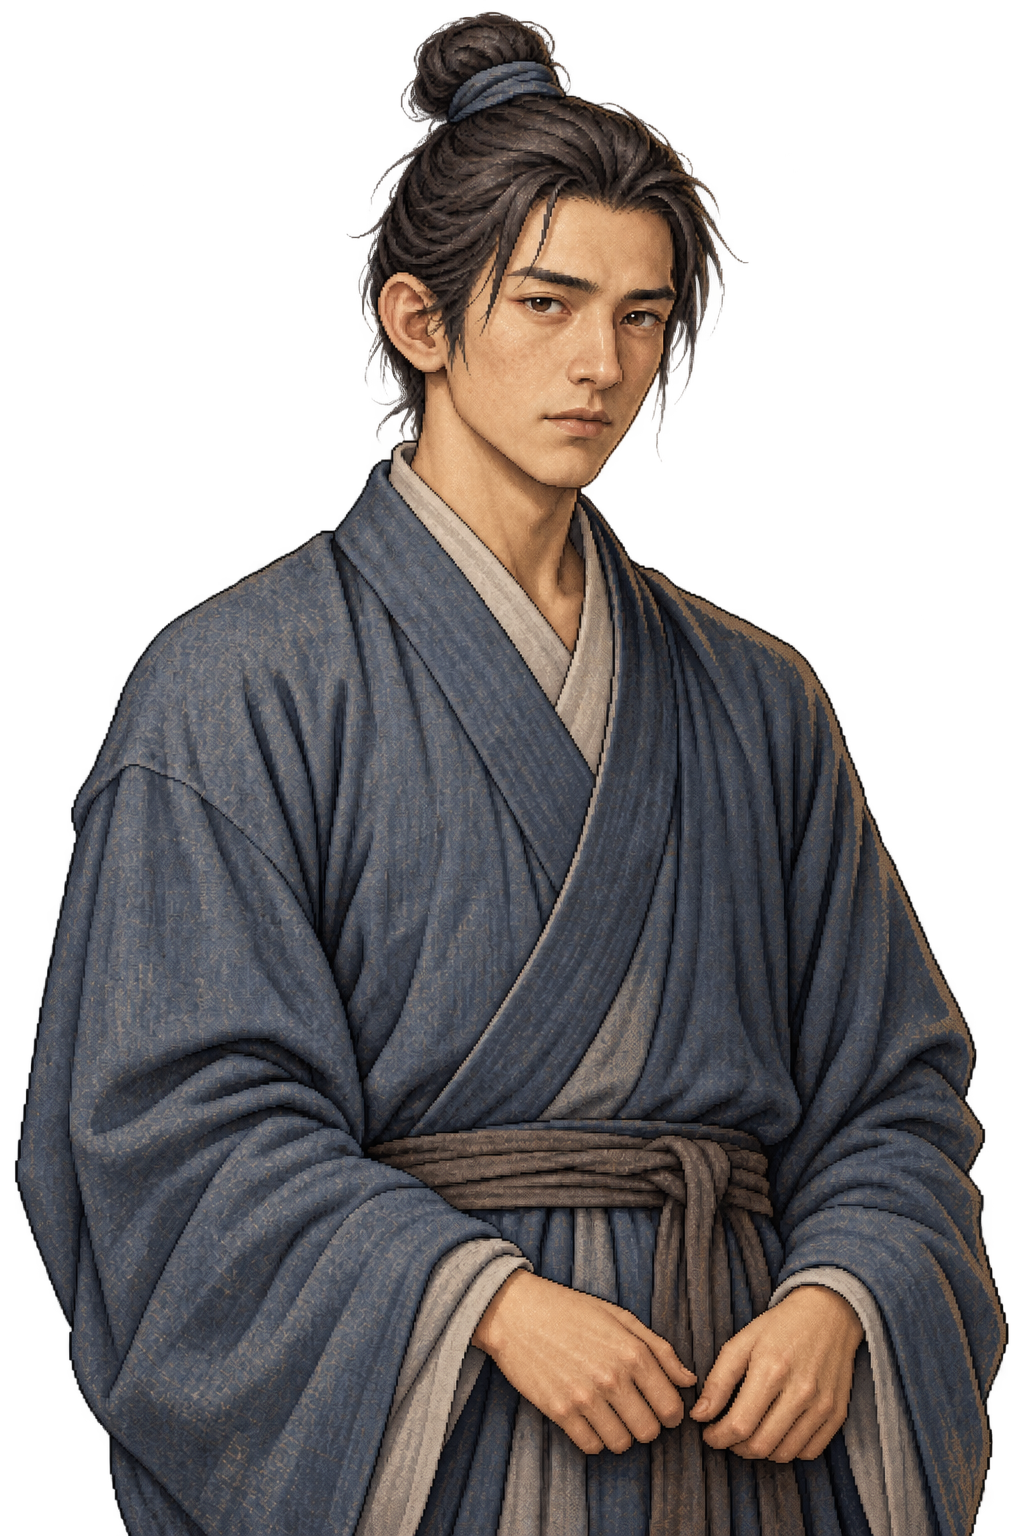
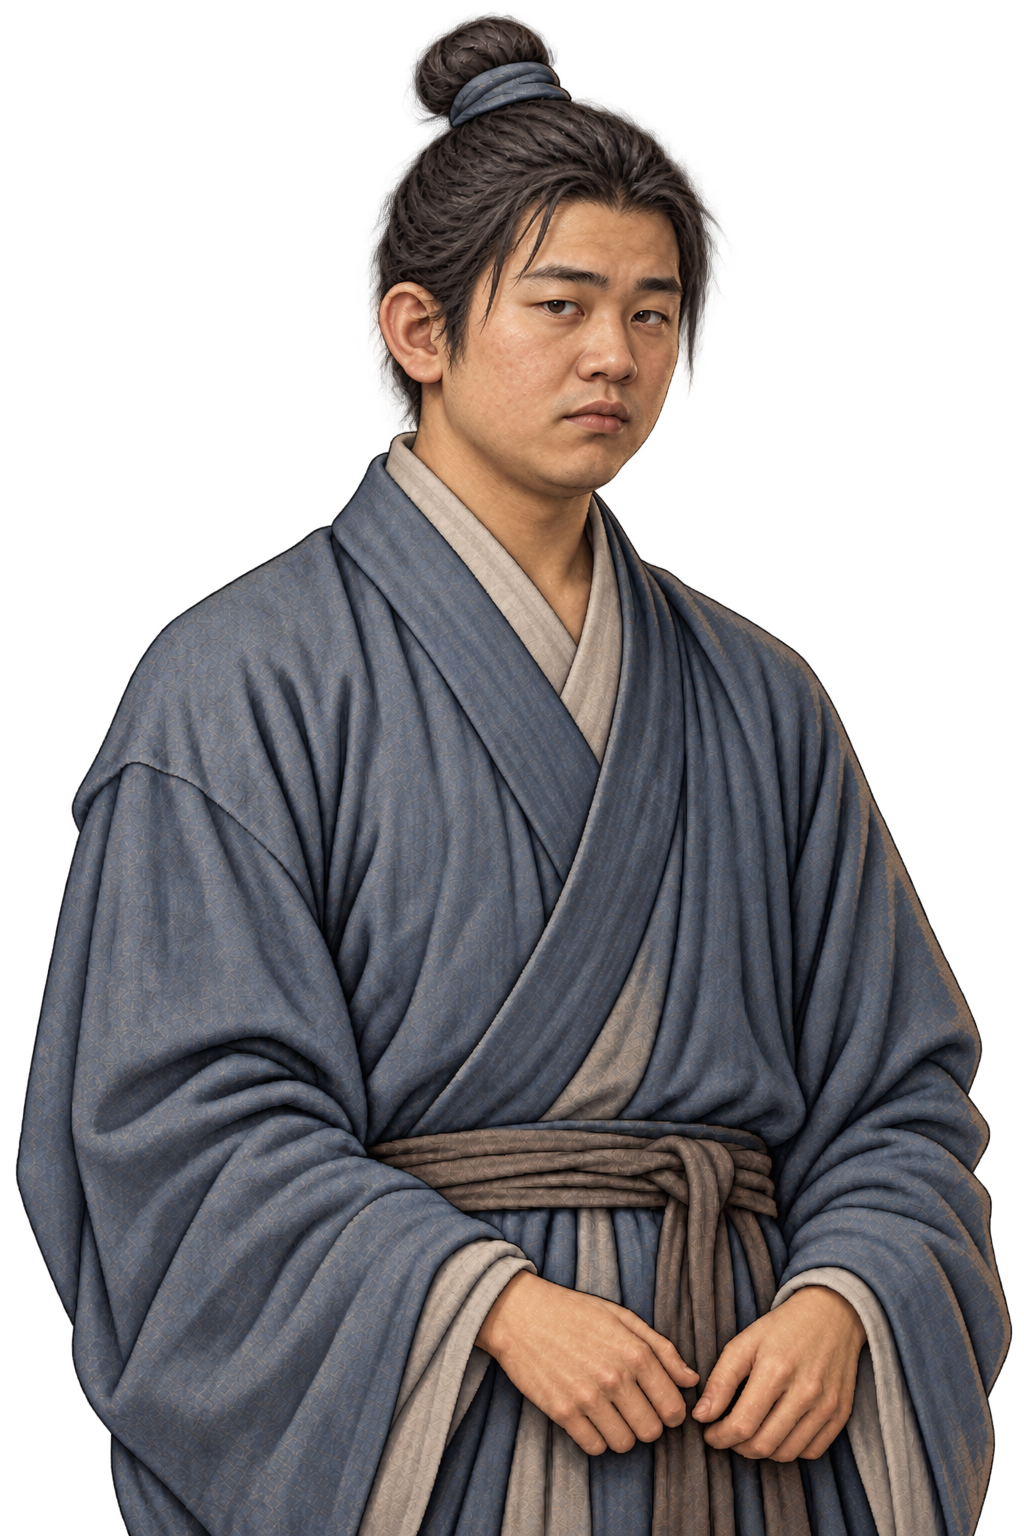
Replace shared young NPC portraits with ordinary civilian faces

Changed region(s): [[0.0, 0.0, 1.0, 1.0]]

diff --git a/docs/CLI_HANDOFF.md b/docs/CLI_HANDOFF.md
@@ -22,7 +22,7 @@
 - **무림맹 중급 무공:** 검·도·창·권·장5종을 전용 데이터와 아이콘에 등록했다. 능력치/경지 학습 제한은 없고 무기·내기 사용 조건은 유지한다. 반석권법 내공 계수를6으로 강화해 균형20 기준 장법과 동일한320이다. 일반 교관 비판매이며 무림맹 전수 대화/지급은 아직 미연결이다. [수치·비교·이미지](martial-arts/alliance-intermediate.md).
 - **전투:** 기본공격/기본방어/삼재검법/빈칸으로 시작하며 **4칸 모두 교체 가능**. 기본방어70%, 검법 사용 후 방어20%. 적도 공통 내기/무공 규칙을 쓰고 플레이어 선택 전에 행동을 확정한다. 예고는 큰 기세만 보여 준다.
 - **포졸 초상화:** 기존 토벌 대화의 `bandit_messenger`에 검정·붉은 관아 근무복/관모·捕 표식·포승줄·단봉을 갖춘 `portraits/story/constable-duty.png`를 적용했다. 기본18장과 주인공은 그대로다. [그림·근거·연결](../godot/assets/portraits/story/README.md).
-- **표현:** 검·도·창·맨손 전투 모션과 양측 공격·피격 효과음, 걷기 애니메이션, 상황별 BGM, 번들 붓글씨/명조체, 초상화 비율·시선 처리. 기본 NPC 초상화는 기존 공용10장+무창8장=총18장(남10/여8). 일반 마을 NPC는 별도 지시 없이 새 그림을 만들지 않고 재사용한다. `data/basic_npc_portraits.json`이 목록이며 같은 대화의 이미지 중복을 금지한다. 대화 기록 버튼/H키로 현재까지 읽은 줄을 본다. [오브젝트·대화 도구](systems/layered-city-and-conversation.md).
+- **표현:** 검·도·창·맨손 전투 모션과 양측 공격·피격 효과음, 걷기 애니메이션, 상황별 BGM, 번들 붓글씨/명조체, 초상화 비율·시선 처리. 기본 NPC 초상화는 기존 공용10장+무창8장=총18장(남10/여8). 갤러리4번/9번 공용 청년 남녀를 평범한 인상으로 교체해 기존 사용처 전체에 적용했다(원본 경로/ID 유지). 일반 마을 NPC는 별도 지시 없이 새 그림을 만들지 않고 재사용한다. `data/basic_npc_portraits.json`이 목록이며 같은 대화의 이미지 중복을 금지한다. 대화 기록 버튼/H키로 현재까지 읽은 줄을 본다. [오브젝트·대화 도구](systems/layered-city-and-conversation.md).
 - **저장:** 수동10슬롯, schema1~3 읽기 호환. **대화·거래·전투 중 새 저장/덮어쓰기 금지**, 탐험·분기 선택창 저장 가능. 과거 버전의 대화/거래/전투 저장은 읽을 수 있다. 일반 의뢰 진행·달성·안부 분기와 시설 안내도 보존한다. 환경 설정은 별도 preferences.cfg다. 자동 0장 체크포인트와 수동 저장은 별개다.
 
 ## 유지할 설정

diff --git a/godot/assets/portraits/extras/README.md b/godot/assets/portraits/extras/README.md
@@ -39,3 +39,11 @@
 ## 현재 기본 풀18장
 
 이 폴더10장에 `../wuchang/`의8장을 합쳐 기본 NPC 이미지18장으로 지정했다. 일반 마을 NPC는 별도 지시 없이 이 풀을 재사용하며 새 그림을 자동 생성하지 않는다. 파일을 복사/이동하지 않고 `data/basic_npc_portraits.json`의 안정적인 ID로 참조한다. 인물 등록에는 `basic_portrait: "male_farmer"`처럼 지정할 수 있고 기존 `extra` 분류도 유지한다. [현재 제작 원칙](../../../../docs/characters/creation-guidelines.md).
+
+## 공용 청년 남녀 교체 — 2026-10-25
+
+기본 풀 갤러리4번 `male_young.png`와9번 `female_young.png`를 일반 주민에 맞는 평범한 인상으로 교체했다. 남성은 넓고 둥근 얼굴·짧은 턱·작은 눈·낮고 넓은 코·생활감 있는 피부, 여성은 둥근 볼·작은 눈·완만한 턱선·평범한 코와 입·자연스러운 피부 질감으로 구분한다. 청년 나이대, 기존 남색/적갈색 복식, 상반신 구도와 화풍은 유지한다.
+
+같은 원본 경로를 교체했으므로 임소평·육승·고만복·조성우 등 남성 청년 공용 사용처, 진소옥·임소연 등 여성 청년 공용 사용처, 대화 중 중복 방지로 이 그림을 배정받는 일반 NPC에도 적용된다. 주인공·포졸·거래 인물의 별도 전용 그림은 변경하지 않았다. 기본 풀의18장 수와 저장의 인물ID/초상화ID는 유지한다. 기존 얼굴 프레이밍(눈높이/턱 길이)을 실제 대화 화면에서 확인한다.
+
+대화창 비율 확인용 화면: [청년 남성](../../../screenshots/basic-npc-young-male-dialogue.png) · [청년 여성](../../../screenshots/basic-npc-young-female-dialogue.png). 화면 구성 검사이며 이야기의 인물 위치/진행은 변경하지 않는다. `basic_npc_portraits`, `dialogue`, `conversation_tools` 기존 검사를 통과했다.

diff --git a/docs/characters/basic-npc-gallery.md b/docs/characters/basic-npc-gallery.md
@@ -11,4 +11,6 @@
 | **13. 남성 · 교관 (임정산)**<br>[![남성 · 교관 (임정산)](../../godot/assets/portraits/wuchang/lin_zhengshan.png)](../../godot/assets/portraits/wuchang/lin_zhengshan.png)<br>`male_instructor` | **14. 여성 · 객잔 주인 (도삼랑)**<br>[![여성 · 객잔 주인 (도삼랑)](../../godot/assets/portraits/wuchang/du_sanniang.png)](../../godot/assets/portraits/wuchang/du_sanniang.png)<br>`female_innkeeper` | **15. 남성 · 포두 (육정호)**<br>[![남성 · 포두 (육정호)](../../godot/assets/portraits/wuchang/lu_zhenghao.png)](../../godot/assets/portraits/wuchang/lu_zhenghao.png)<br>`male_constable` |
 | **16. 남성 · 하역반장 (오덕수)**<br>[![남성 · 하역반장 (오덕수)](../../godot/assets/portraits/wuchang/wu_deshu.png)](../../godot/assets/portraits/wuchang/wu_deshu.png)<br>`male_dockworker` | **17. 여성 · 노년 주민 (정씨 할머니)**<br>[![여성 · 노년 주민 (정씨 할머니)](../../godot/assets/portraits/wuchang/grandmother_zheng.png)](../../godot/assets/portraits/wuchang/grandmother_zheng.png)<br>`female_elder_seamstress` | **18. 남성 · 농부 (주계복)**<br>[![남성 · 농부 (주계복)](../../godot/assets/portraits/wuchang/zhou_jifu.png)](../../godot/assets/portraits/wuchang/zhou_jifu.png)<br>`male_farmer` |
 
+**2026-10-25:** 04번 청년 남성과09번 청년 여성은 일반 주민에 맞춰 더 평범한 인상으로 교체했다. 같은 공용 그림을 쓰는 기존 인물에게도 적용된다.
+
 기준: [게임의 기본 NPC 이미지 목록](../../godot/data/basic_npc_portraits.json).
